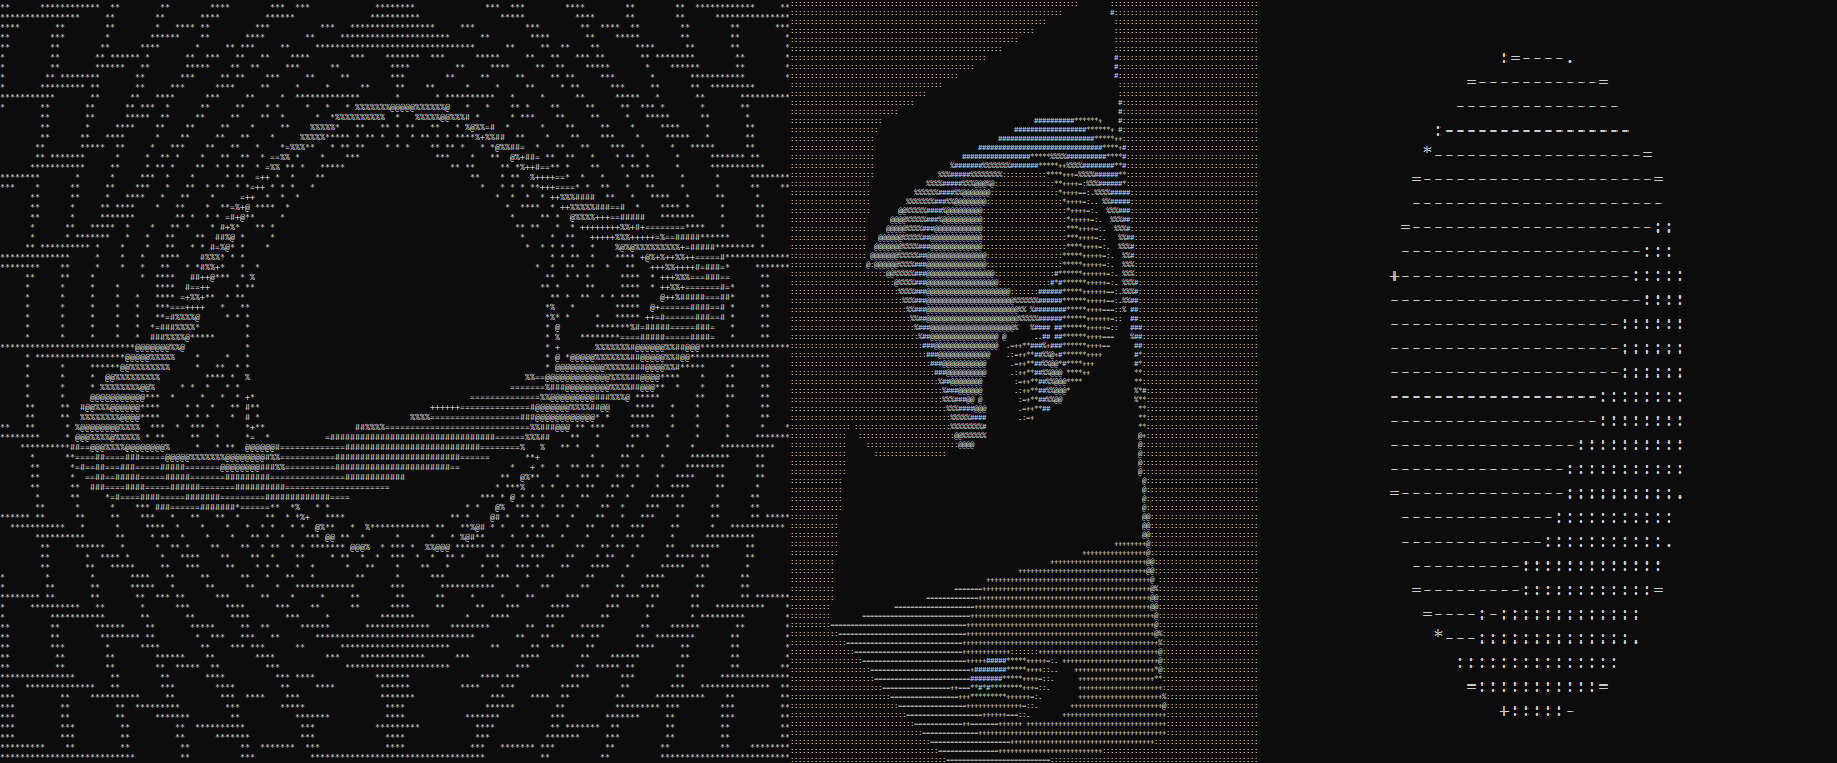
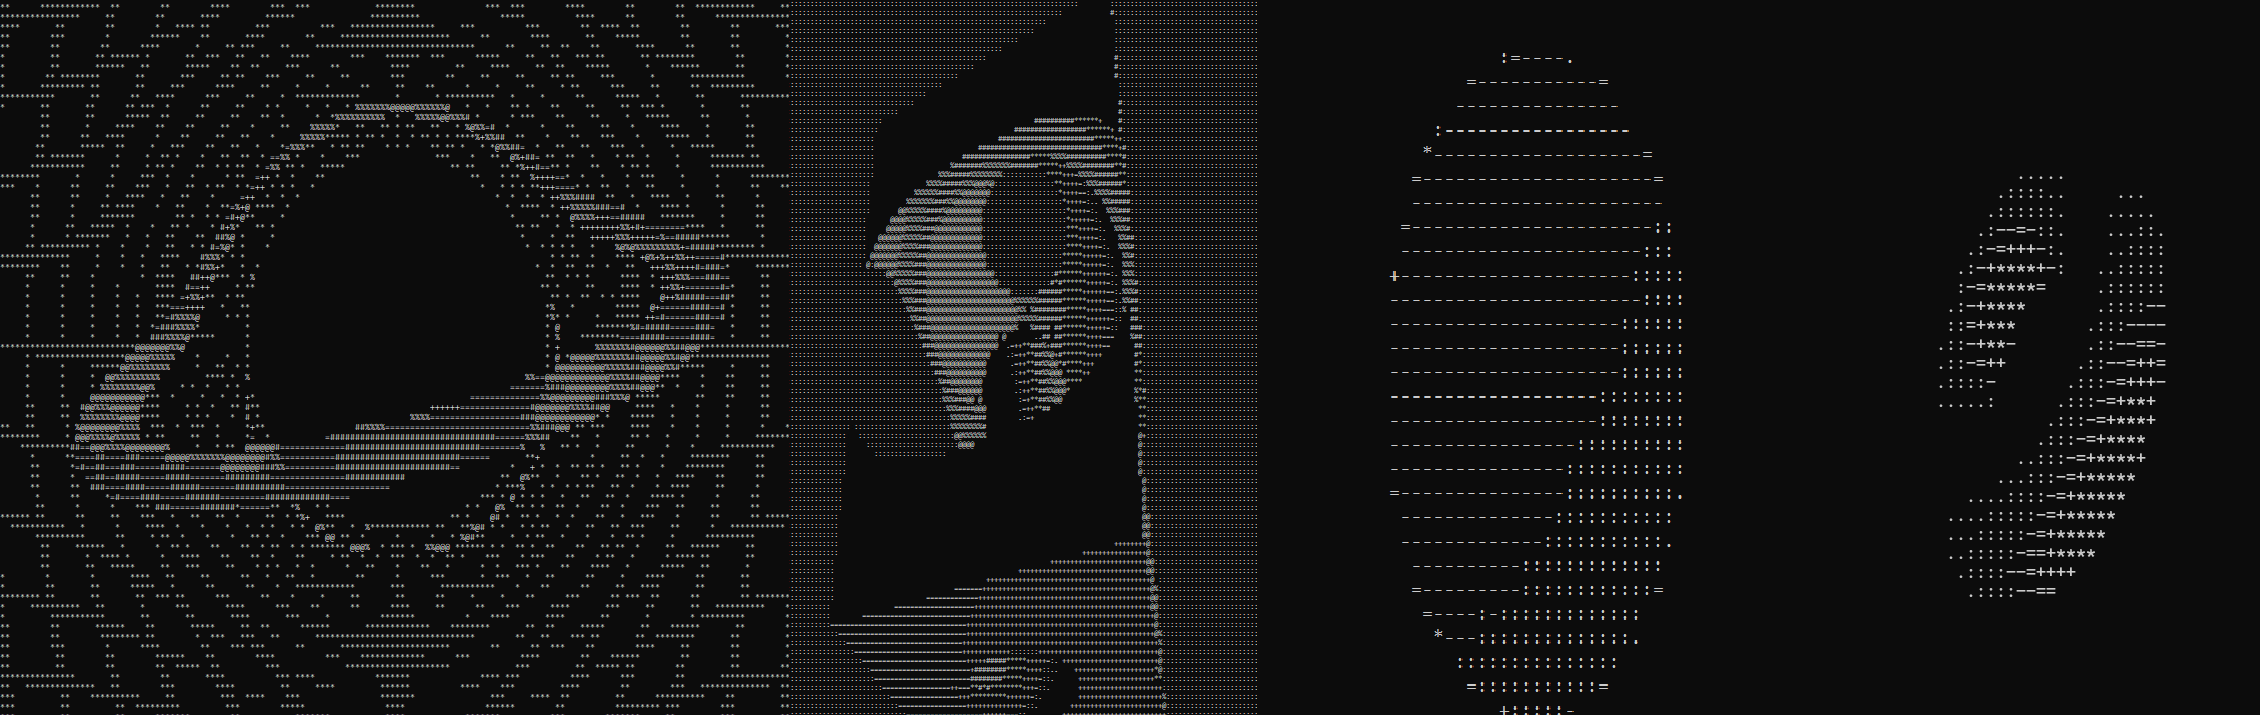
feat: generalize ray marcher

diff --git a/src/sketches/blackhole.cpp b/src/sketches/blackhole.cpp
@@ -12,14 +12,12 @@ constexpr float width = 130;
 constexpr float height = 80;
 constexpr float workerThreads = 4;
 
-// black hole configuration
 constexpr float RS = .125;         // singularity radius
 constexpr float PS_RAD = 1.5 * RS; // photon sphere radius
 constexpr float ACC_RAD = 3. * RS; // accretion disc radius
 
 float gtime = .1;
 
-// ray marching configuration
 constexpr float MAX_DEPTH = 100.;
 constexpr int MAX_STEPS = 300;
 constexpr float DP = 0.05;
@@ -33,31 +31,31 @@ inline float sdAccretionDisc(vec3 p) {
 }
 
 // Rough approximation of how light bends
-inline float interpSpaceDistortion(float sz_rad, float dist_singularity) {
-  const float distortion_factor = 2.79;
-  const float dist_ratio = sz_rad / dist_singularity;
-  return pow(dist_ratio, distortion_factor);
+inline float interpSpaceDistortion(float szwRad, float distSingularity) {
+  const float distortionFactor = 2.79;
+  const float distRatio = szwRad / distSingularity;
+  return pow(distRatio, distortionFactor);
 }
 
 vec3 bendLightDirection(vec3 blPos, vec3 rayPos, vec3 rayDir) {
-  // points at the current direction
   const vec3 u = normalize(rayDir);
-  // points at the singularity i.e. center of the black hole
+
+  // Points at the singularity i.e. center of the black hole
   // (u, v) angle is the maximum deviation angle starting from the current
   // unchanged light direction
   const vec3 v = normalize(sub(blPos, rayPos));
 
-  // in this setup we use v directly
+  // In this setup we use v directly
   // let's bend u in such a way that it follows v
   // also let's consider how close it is to bend it properly
-  float dist_how_close = length(sub(blPos, rayPos));
-  float lerp_val = interpSpaceDistortion(RS, dist_how_close);
+  float distHowClose = length(sub(blPos, rayPos));
+  float lerpVal = interpSpaceDistortion(RS, distHowClose);
 
-  return normalize(lerp3(u, v, lerp_val));
+  return normalize(lerp3(u, v, lerpVal));
 }
 
 inline float normalizedNoiseTexture(float x, float y) {
-  // noise-ish texture... a normalized chess board
+  // Noise-ish texture... a normalized chess board
   const int sx = (int)(x * 10.f);
   const int sy = (int)(y * 30.f);
   return (sx + sy) % 2 == 0 ? 0.3 : 1.;
@@ -90,7 +88,7 @@ void blackholeShader(float &fragColor, const vec2 &fragCoord) {
   vec3 rayDir = camDir;
 
   for (int i = 0; i < MAX_STEPS; i++) {
-    rayDir = bendLightDirection(blPos, rayPos, rayDir);
+    rayDir = bendLightDirection(blPos, rayPos, rayDir); // !
     rayPos = add(rayPos, scaleReal(rayDir, DP));
 
     float d = sdAccretionDisc(rayPos);
@@ -100,18 +98,18 @@ void blackholeShader(float &fragColor, const vec2 &fragCoord) {
       break;
   }
 
-  // base color
+  // Base color
   float diffuse = 0.;
 
-  // right after the photon sphere
+  // Right after the photon sphere
   if (length(vec3(uv.x, uv.y, 0.)) < PS_RAD)
     diffuse = 0.;
 
-  // construct the accretion disk and the photon sphere
+  // Construct the accretion disk and the photon sphere
   if (distTraveled < MAX_DEPTH) {
     const vec3 delta = sub(rayPos, blPos);
-    // make it glow more as it approaches the center
-    // create glow and diminish it with distance
+    // Make it glow more as it approaches the center
+    // and diminish it with distance
     float glow = .3 / std::pow(length(delta), 2.);
     glow = clamp(glow, 0., 1.); // remove artifacts
 
@@ -152,7 +150,6 @@ int main() {
 
     engine.restoreCursor();
 
-    // attempt 60fps
     using namespace std::literals::chrono_literals;
     std::this_thread::sleep_for(16ms);
   }

diff --git a/src/sketches/sphere.cpp b/src/sketches/sphere.cpp
@@ -14,23 +14,6 @@ constexpr float height = 35;
 // Sphere at (0, 0, 0)
 inline float sdTotalScene(vec3 p) { return length(p) - radius; }
 
-inline float rayMarch(vec3 camera, vec3 cam_dir) {
-  float distTraveled = minDepth;
-  int steps = 200;
-  while (steps > 0) {
-    vec3 currPos = add(camera, scaleReal(cam_dir, distTraveled));
-    float d = sdTotalScene(currPos);
-    distTraveled += d;
-
-    if (d < EPSILON || distTraveled > maxDepth)
-      break;
-
-    steps--;
-  }
-
-  return distTraveled;
-}
-
 void shader(float &fragColor, const vec2 &fragCoord) {
   const vec2 uv((fragCoord.x - 0.5 * width) / height,
                 (fragCoord.y - 0.5 * height) / height);
@@ -38,7 +21,7 @@ void shader(float &fragColor, const vec2 &fragCoord) {
   const vec3 camera(0., 0., 3.); // right above the screen
   const vec3 camDir = normalize({uv.x, uv.y, -1.});
 
-  float traveled = rayMarch(camera, camDir);
+  float traveled = rayMarch({minDepth, maxDepth}, camera, camDir, sdTotalScene);
   if (traveled <= maxDepth) {
     const vec3 contact = add(camera, scaleReal(camDir, traveled));
     const vec3 contactNormal = sceneNormalAt(contact, &sdTotalScene);

diff --git a/src/core/geom.cpp b/src/core/geom.cpp
@@ -109,7 +109,7 @@ float fixed_fmod(float a, float n) { return std::fmod(std::fmod(a, n) + n, n); }
 
 // The gradient at the contact point is orthogonal to surface
 // Approximating it is enough in practice..
-vec3 sceneNormalAt(vec3 p, float (*dist)(vec3)) {
+vec3 sceneNormalAt(vec3 p, const std::function<float(const vec3 &)> &dist) {
   const float x =
       dist({p.x + EPSILON, p.y, p.z}) - dist({p.x - EPSILON, p.y, p.z});
   const float y =
@@ -117,4 +117,23 @@ vec3 sceneNormalAt(vec3 p, float (*dist)(vec3)) {
   const float z =
       dist({p.x, p.y, p.z + EPSILON}) - dist({p.x, p.y, p.z - EPSILON});
   return normalize({x, y, z});
+}
+
+float rayMarch(std::pair<float, float> depth, const vec3 &camera,
+               const vec3 &camDir,
+               const std::function<float(const vec3 &)> &distanceFn) {
+  float distTraveled = depth.first;
+  int steps = 200;
+  while (steps > 0) {
+    vec3 currPos = add(camera, scaleReal(camDir, distTraveled));
+    float d = distanceFn(currPos);
+    distTraveled += d;
+
+    if (d < EPSILON || distTraveled > depth.second)
+      break;
+
+    steps--;
+  }
+
+  return distTraveled;
 }

diff --git a/src/sketches/donut.cpp b/src/sketches/donut.cpp
@@ -11,18 +11,16 @@
 
 constexpr float minDepth = 0;
 constexpr float maxDepth = 100;
-constexpr float width = 120;
-constexpr float height = 80;
+constexpr float width = 42;
+constexpr float height = 42;
 float gtime = 0;
 
 float sdTotalScene(vec3 p) {
   vec3 transfP = applyTransf(rotateY(-gtime), p);
-  transfP = applyTransf(rotateX(-gtime), transfP);
-  transfP = applyTransf(rotateZ(-gtime), transfP);
-  return sdDiff(sdUnion(sdSphere(transfP, 0.25),
-                        sdDiff(sdBox(transfP, vec3(0.8, 0.8, 0.8)),
-                               sdSphere(transfP, 1.))),
-                sdTorus(transfP, 1, 0.5));
+  transfP = applyTransf(rotateX(-gtime * 0.5), transfP);
+  transfP = applyTransf(rotateZ(-gtime * 0.25), transfP);
+
+  return sdTorus(transfP, 0.67, 0.3);
 }
 
 void shader(float &fragColor, const vec2 &fragCoord) {

diff --git a/src/core/geom.hpp b/src/core/geom.hpp
@@ -3,6 +3,7 @@
 #include "geom.hpp"
 
 #include <cmath>
+#include <functional>
 #include <iostream>
 #include <utility>
 
@@ -68,4 +69,7 @@ float clamp(float value, float min, float max);
 float step(float a, float edge);
 float fixed_fmod(float a, float n);
 
-vec3 sceneNormalAt(vec3 p, float (*dist)(vec3));
+vec3 sceneNormalAt(vec3 p, const std::function<float(const vec3 &)> &dist);
+float rayMarch(std::pair<float, float> depth, const vec3 &camera,
+               const vec3 &camDir,
+               const std::function<float(const vec3 &)> &distanceFn);

diff --git a/src/core/engine.cpp b/src/core/engine.cpp
@@ -72,6 +72,8 @@ void Engine::update(
     int endRow = i == workers - 1 ? height : startRow + rows;
 
     threads.emplace_back(taskSlice, startRow, endRow);
+    // std::thread t(taskSlice);
+    // threads.push_back(std::move(t));
   }
 
   for (auto &thread : threads) {

diff --git a/src/core/engine.hpp b/src/core/engine.hpp
@@ -3,7 +3,6 @@
 #include <chrono>
 #include <cmath>
 #include <cstring>
-#include <ctime>
 #include <functional>
 #include <iostream>
 #include <thread>

diff --git a/README.md b/README.md
@@ -10,6 +10,9 @@ A GLSL-like renderer on the terminal.
 # Simple sphere
 make sphere
 
+# Raymarch on a rotating donut
+make donut
+
 # Raymarch on a rotating 3d object
 make composition
 
@@ -18,6 +21,14 @@ make blackhole
 ```
 
 ## Usage
+
+The shader function works the same as a typical GLSL fragment shader with the
+main exception of `fragColor`, which is unidimensional instead of being a vec4
+(but still normalized).
+
+The function will run on each fragment from left to right and top to bottom.
+
+Here is a basic test program
 
 ```cpp
 #include "engine.hpp"
@@ -52,3 +63,24 @@ int main() {
 ```
 
 ![alt text](screenshots/divided-circle.png)
+
+You can test the equivalent GLSL code
+[here](https://www.shadertoy.com/view/lc3BWl).
+
+```glsl
+void mainImage( out vec4 fragColor, in vec2 fragCoord )
+{
+    vec2 uv = (fragCoord - 0.5 * iResolution.xy) / iResolution.y;
+    float col = 0.;
+    if (length(uv) < 0.4) {
+        float one = 0.25, two = 0.5, three = 0.75, four = 1.0;
+        if (fragCoord.x > iResolution.x / 2.) {
+            col = fragCoord.y > iResolution.y / 2.0 ? one : two;
+        } else {
+            col = fragCoord.y > iResolution.y / 2.0 ? three : four;
+        }
+    }
+
+    fragColor = vec4(col, col, col, 1.);
+}
+```
